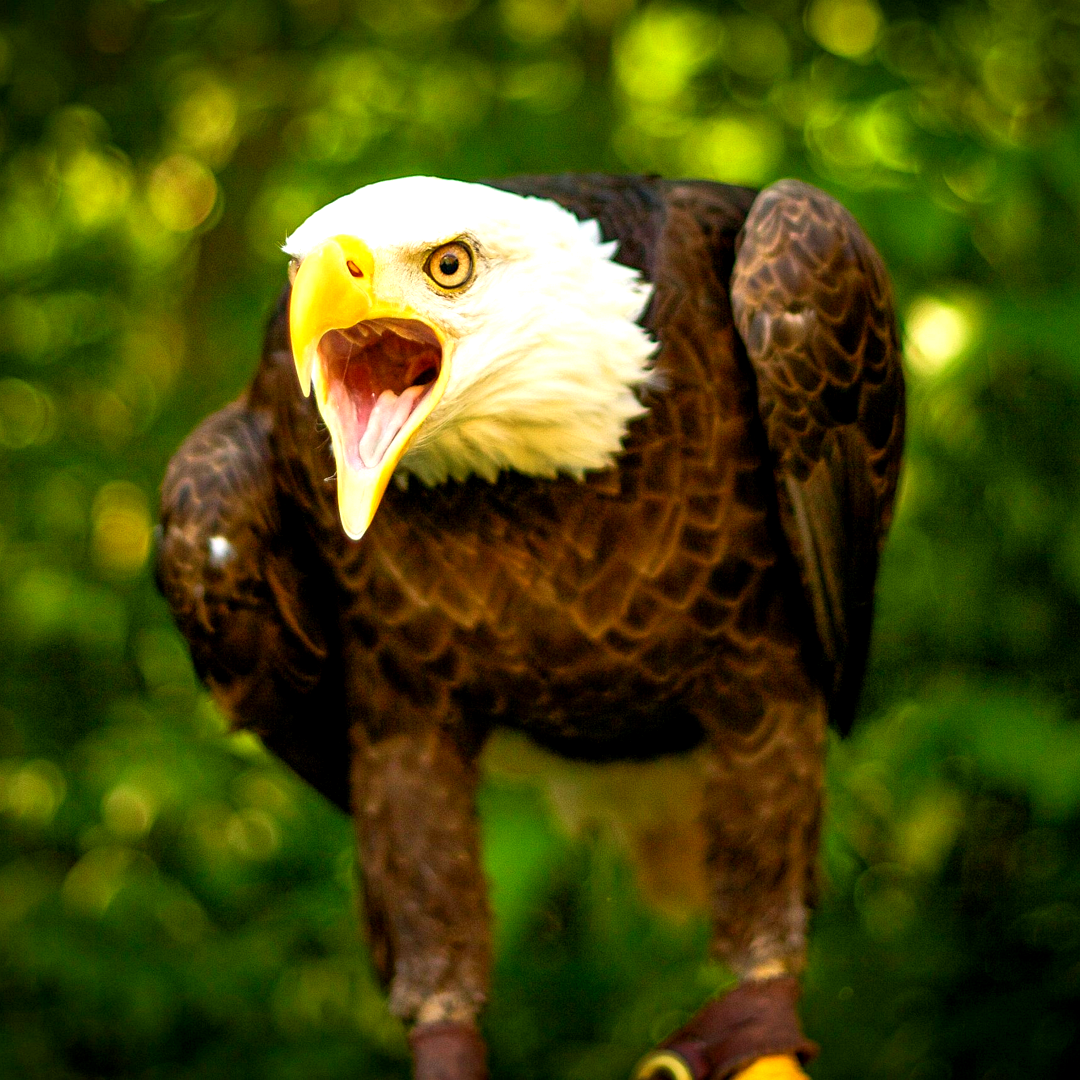
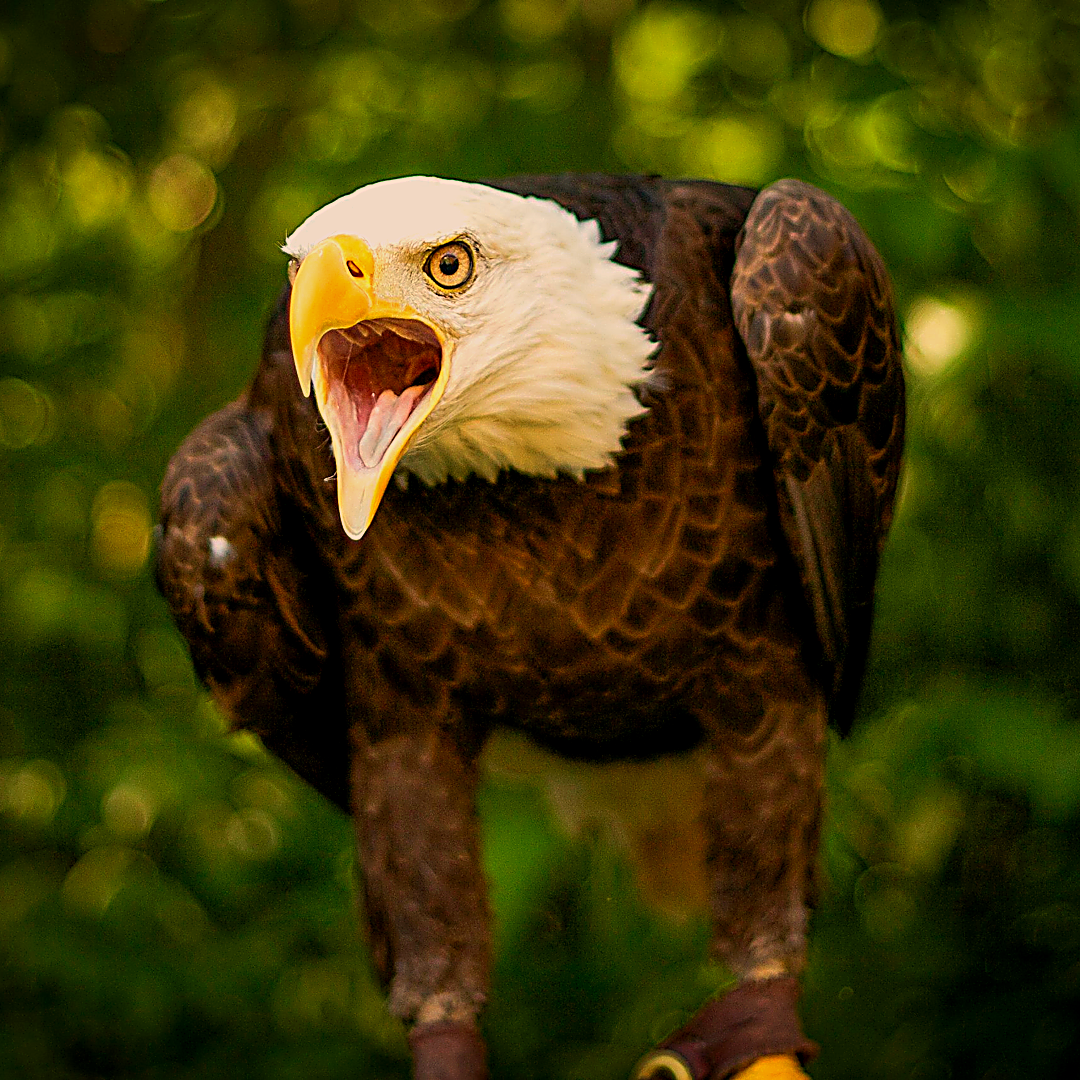
added warmth and tint feature, changed scaling factors, and  updated the sample pictures

diff --git a/Insta-ready.py b/Insta-ready.py
@@ -1,36 +1,20 @@
-from PIL import Image, ImageEnhance
-
-def resize_jpg(image):
-    if image.width < image.height and image.width != 1080:
-        ratio = image.height/image.width
-        newimg = image.resize((1080,int(1080*(ratio))))
-        return newimg
-    if image.width > image.height and image.height != 1080:
-        ratio = image.width/image.height
-        newimg = image.resize((int(1080*(ratio)),1080))
-        return newimg
-
-def crop_instagram(image):
-    midx = image.width//2
-    midy = image.height//2
-    croparea = (midx-540,midy-540,midx+540,midy+540)
-    cropped = image.crop(croparea)
-    return cropped
+from PIL import Image, ImageEnhance, ImageFilter
+from size_crop import resize_jpg, crop_instagram
+from tint_warmth import convert_temp
 
 def filter_insta(image):
-    contrast = ImageEnhance.Contrast(image).enhance(1.2)
-    color = ImageEnhance.Color(contrast).enhance(1.3)
-    bright = ImageEnhance.Brightness(color).enhance(1.1)
-    sharp = ImageEnhance.Sharpness(bright).enhance(1.1)
-    return sharp
+    contrast = ImageEnhance.Contrast(image).enhance(1.15)
+    color = ImageEnhance.Color(contrast).enhance(1.2)
+    bright = ImageEnhance.Brightness(color).enhance(0.95)
+    unsharp = bright.filter(ImageFilter.UnsharpMask(radius=2, percent=150, threshold=3))
+    warm = convert_temp(unsharp, 5000)
+    return warm
 
 if __name__ == "__main__":
     name = input("Which image would you like to deal with?")
     with Image.open(f"{name}{'.jpg'}") as inimg:
         newimg = resize_jpg(inimg)
-
         cropped = crop_instagram(newimg)
-
         filtered = filter_insta(cropped)
 
         outfile = f"{name}{'.png'}"

diff --git a/tint_warmth.py b/tint_warmth.py
@@ -1,0 +1,33 @@
+from PIL import Image, ImageChops
+
+kelvin_table = {
+    1000: (255,56,0),
+    1500: (255,109,0),
+    2000: (255,137,18),
+    2500: (255,161,72),
+    3000: (255,180,107),
+    3500: (255,196,137),
+    4000: (255,209,163),
+    4500: (255,219,186),
+    5000: (255,228,206),
+    5500: (255,236,224),
+    6000: (255,243,239),
+    6500: (255,249,253),
+    7000: (245,243,255),
+    7500: (235,238,255),
+    8000: (227,233,255),
+    8500: (220,229,255),
+    9000: (214,225,255),
+    9500: (208,222,255),
+    10000: (204,219,255)}
+
+
+def convert_temp(image, temp):
+    r, g, b = kelvin_table[temp]
+    matrix = ( r / 255.0, 0.0, 0.0, 0.0,
+               0.0, g / 255.0, 0.0, 0.0,
+               0.0, 0.0, b / 255.0, 0.0 )
+    return image.convert('RGB', matrix)
+
+def tint_image(image, tint_color):
+    return ImageChops.multiply(image, Image.new('RGB', image.size, tint_color))

diff --git a/size_crop.py b/size_crop.py
@@ -1,0 +1,18 @@
+from PIL import Image
+
+def resize_jpg(image):
+    if image.width < image.height and image.width != 1080:
+        ratio = image.height/image.width
+        newimg = image.resize((1080,int(1080*(ratio))))
+        return newimg
+    if image.width > image.height and image.height != 1080:
+        ratio = image.width/image.height
+        newimg = image.resize((int(1080*(ratio)),1080))
+        return newimg
+
+def crop_instagram(image):
+    midx = image.width//2
+    midy = image.height//2
+    croparea = (midx-540,midy-540,midx+540,midy+540)
+    cropped = image.crop(croparea)
+    return cropped
